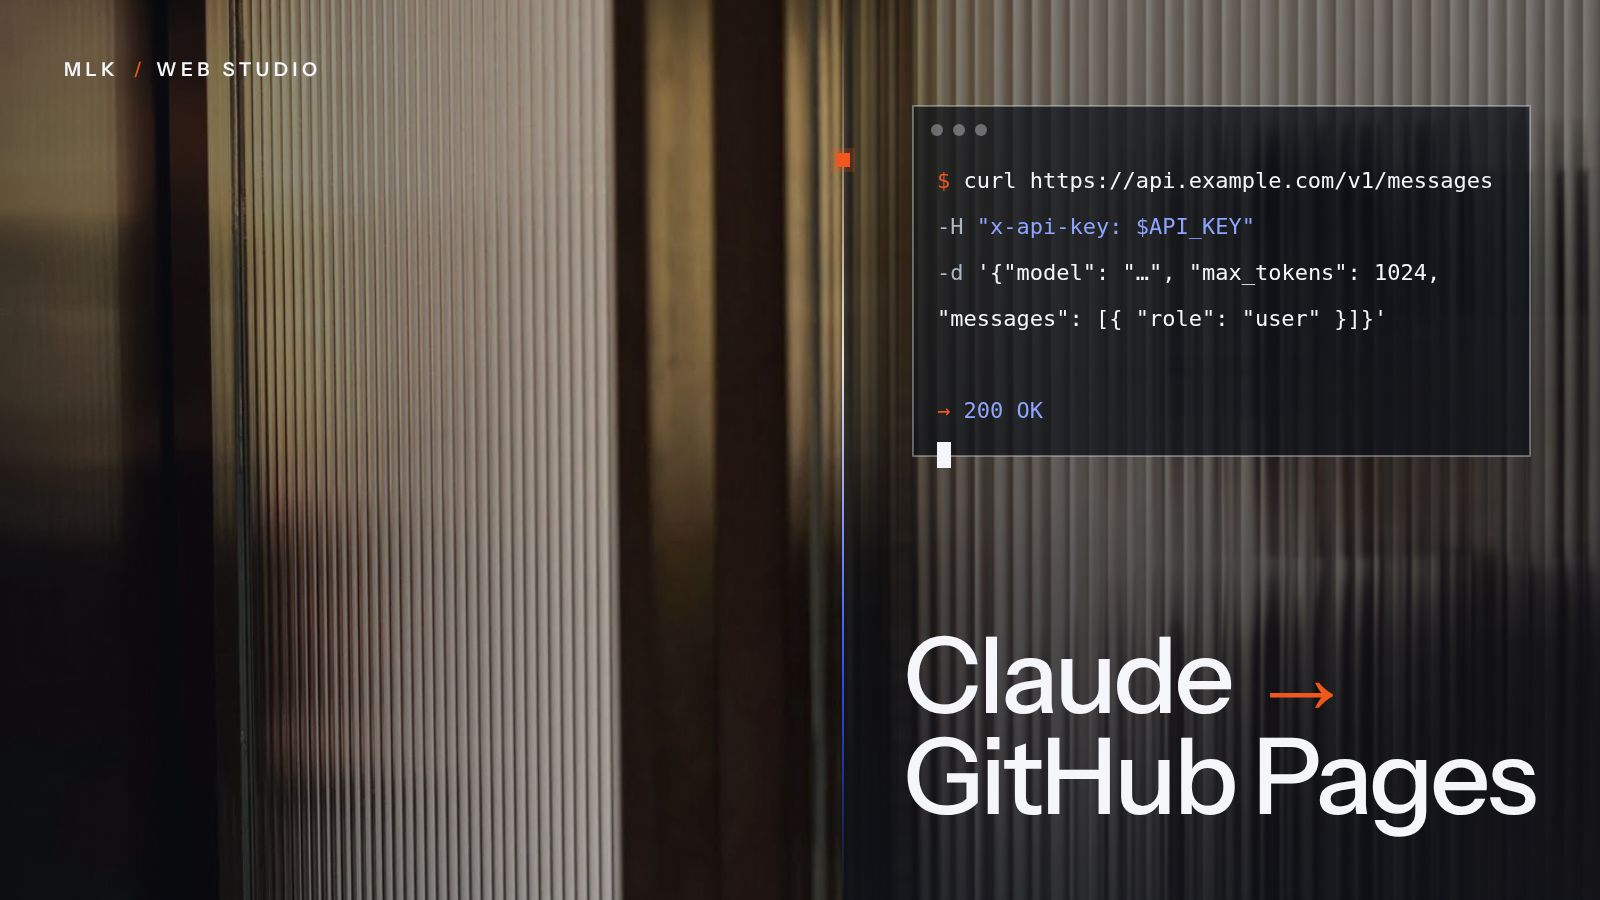
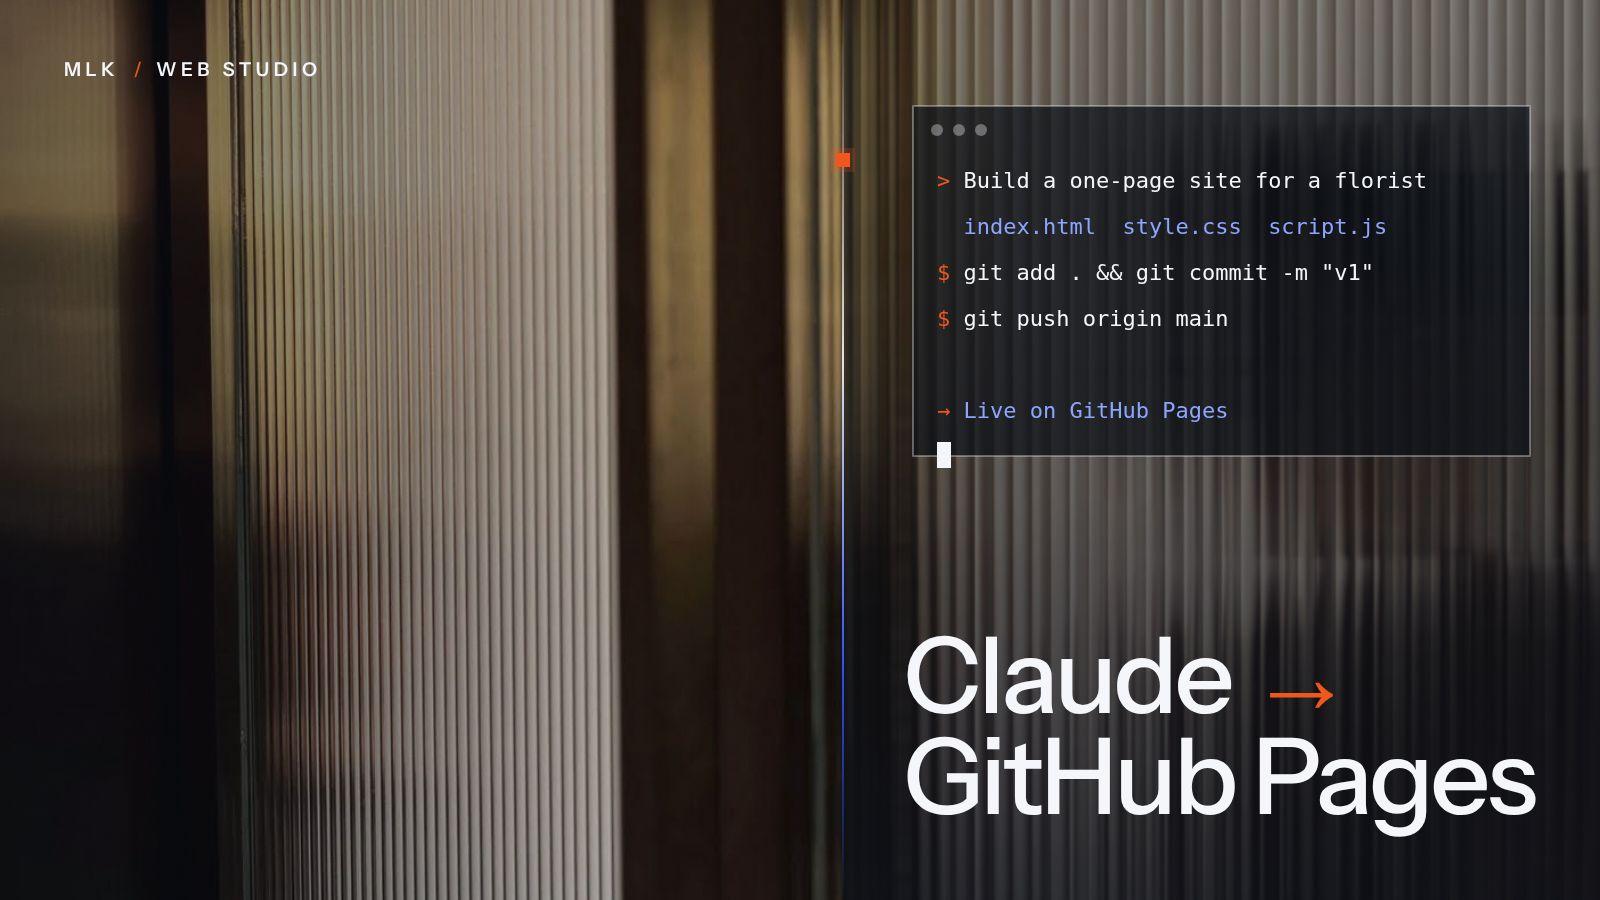
Blog covers: each code cover shows its own article's snippet (OpenAI request was Anthropic-style)
Claude-Session: https://claude.ai/code/session_01NjGn7NKWdHkFA8SjT9U923

diff --git a/tools/covers/cover.html b/tools/covers/cover.html
@@ -202,7 +202,13 @@ html, body { margin: 0; width: 1600px; height: 900px; overflow: hidden; backgrou
       s += '<rect x="10" y="10" width="' + tw + '" height="' + (h - 30) + '" fill="#0D1017" fill-opacity=".72" stroke="' + ICE + '" stroke-opacity=".35" stroke-width="2"/>';
       for (i = 0; i < 3; i++) { s += '<circle cx="' + (34 + i * 22) + '" cy="34" r="6" fill="' + ICE + '" fill-opacity=".35"/>'; }
       var code = [['$ ', OR, 'curl https://api.example.com/v1/messages', ICE], ['  -H ', STEEL, '"x-api-key: $API_KEY"', BLUE2], ['  -d ', STEEL, "'{\"model\": \"…\", \"max_tokens\": 1024,", ICE], ['', STEEL, "     \"messages\": [{ \"role\": \"user\" }]}'", ICE], ['', STEEL, '', ICE], ['→ ', OR, '200 OK', BLUE2]];
-      code.forEach(function (l, k) { s += '<text class="mono" x="34" y="' + (92 + k * 46) + '" font-size="22"><tspan fill="' + l[1] + '">' + l[0] + '</tspan><tspan fill="' + l[3] + '">' + l[2].replace(/&/g, '&amp;').replace(/</g, '&lt;') + '</tspan></text>'; });
+      // covers.json can give the article's own lines: [prefix, colour, text, colour], colours OR STEEL ICE BLUE2
+      var tone = { OR: OR, STEEL: STEEL, ICE: ICE, BLUE2: BLUE2 };
+      if (cfg.code) code = cfg.code.map(function (l) { return [l[0], tone[l[1]] || STEEL, l[2], tone[l[3]] || ICE]; });
+      // monospace glyphs are about 0.6em wide: shrink the type when the longest line would cross the window edge
+      var longest = Math.max.apply(null, code.map(function (l) { return (l[0] + l[2]).length; }));
+      var fz = Math.min(22, Math.floor((tw - 60) / (0.6 * longest)));
+      code.forEach(function (l, k) { s += '<text class="mono" x="34" y="' + (92 + k * 46) + '" font-size="' + fz + '" style="white-space:pre"><tspan fill="' + l[1] + '">' + l[0] + '</tspan><tspan fill="' + l[3] + '">' + l[2].replace(/&/g, '&amp;').replace(/</g, '&lt;') + '</tspan></text>'; });
       s += '<rect x="34" y="' + (92 + 6 * 46 - 22) + '" width="14" height="26" fill="' + ICE + '"/>';
       return s + e;
     }

diff --git a/tools/covers/README.md b/tools/covers/README.md
@@ -6,7 +6,7 @@ A cover is an HTML composition rendered by Chromium: one of the studio's photos,
 
 To add or change a cover:
 
-1. Add or edit the article's entry in `covers.json`: `key`, `category`, `label` (22 characters at most), `motif` (see `render.js`). Optional: `photo` (a file name from `photos/`, without `.jpg`).
+1. Add or edit the article's entry in `covers.json`: `key`, `category`, `label` (22 characters at most), `motif` (see `render.js`). Optional: `photo` (a file name from `photos/`, without `.jpg`). With the `terminal` motif, `code` sets the lines shown in the window, so the snippet matches the article: a list of `[prefix, colour, text, colour]`, colours `OR`, `STEEL`, `ICE` or `BLUE2`.
 2. Run `node tools/covers/render.js <key>` (or without a key to render them all).
 
 The photo, the panel width and the motif details are chosen from the key, so a cover always renders the same way.
